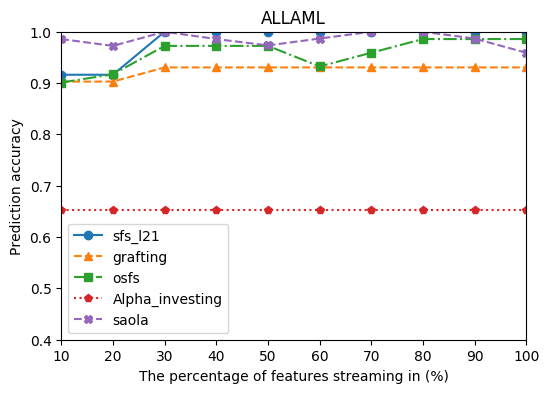
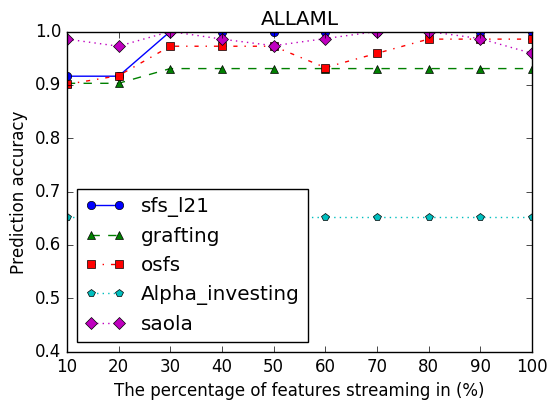
update all_result\streaming\new\ folder for adding saola alg

Changed region(s): [[0.0, 0.0, 0.9909, 0.9771]]

diff --git a/datas/gene/all_result/streaming/new/aggr_png_6.py b/datas/gene/all_result/streaming/new/aggr_png_6.py
@@ -1,7 +1,9 @@
 from matplotlib import image
 import numpy as np
+#import os
 
 if __name__=='__main__':
+    # os.chdir('new/')
     img_names="TOX_171 SMK_CAN_187".split()
     img1=np.concatenate((image.imread("%s.png"%img_names[0]),image.imread("%s.png"%img_names[1])), axis=1)
     # img1=image.imread("%s.png"%img_names[0])
@@ -11,7 +13,7 @@ if __name__=='__main__':
     img_names="ALLAML GLI_85".split()
     img2=np.concatenate((image.imread("%s.png"%img_names[0]),image.imread("%s.png"%img_names[1])), axis=1)
     
-    img_names="GLI_85 Prostate_GE".split()
+    img_names="Lung_Cancer Prostate_GE".split()
     img3=np.concatenate((image.imread("%s.png"%img_names[0]),image.imread("%s.png"%img_names[1])), axis=1)
 
     img=np.concatenate((img1, img2, img3))

diff --git a/datas/gene/all_result/streaming/draw.py b/datas/gene/all_result/streaming/draw.py
@@ -61,7 +61,7 @@ def read_output_streaming_of_one_dataset(dataset_name):
     
 def draw(cls, fname):
     fig, ax = plt.subplots(1, 1)
-    style='o- ^-- s-. p: x--'.split(' ')
+    style='o- ^-- s-. p: D:'.split(' ')
     cls.plot(ax=ax, style=style, ylim=(0.4, 1.0))
     #nfs.plot(ax=axes[1], style='*-', ylim=(0, 90))
     ax.set_ylabel('Prediction accuracy')
